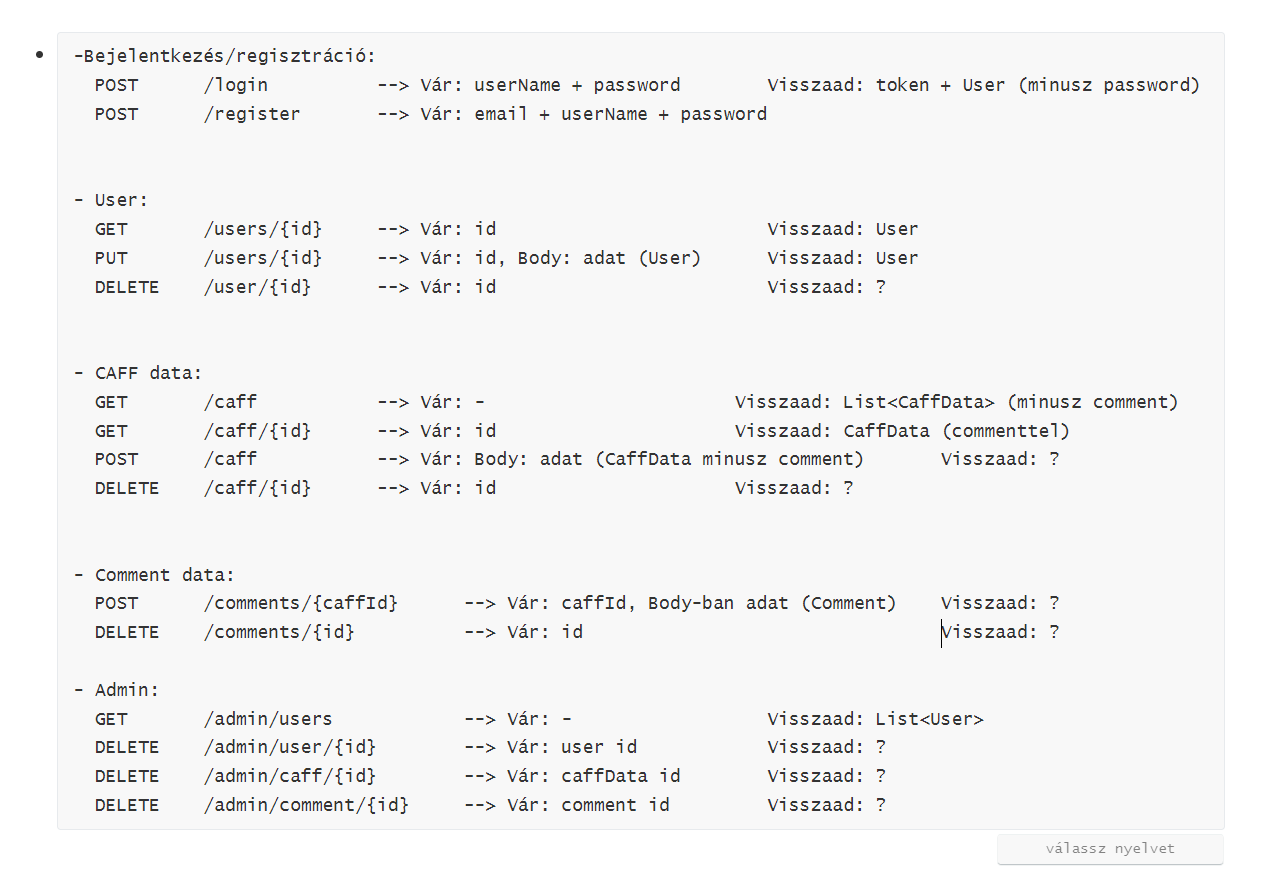
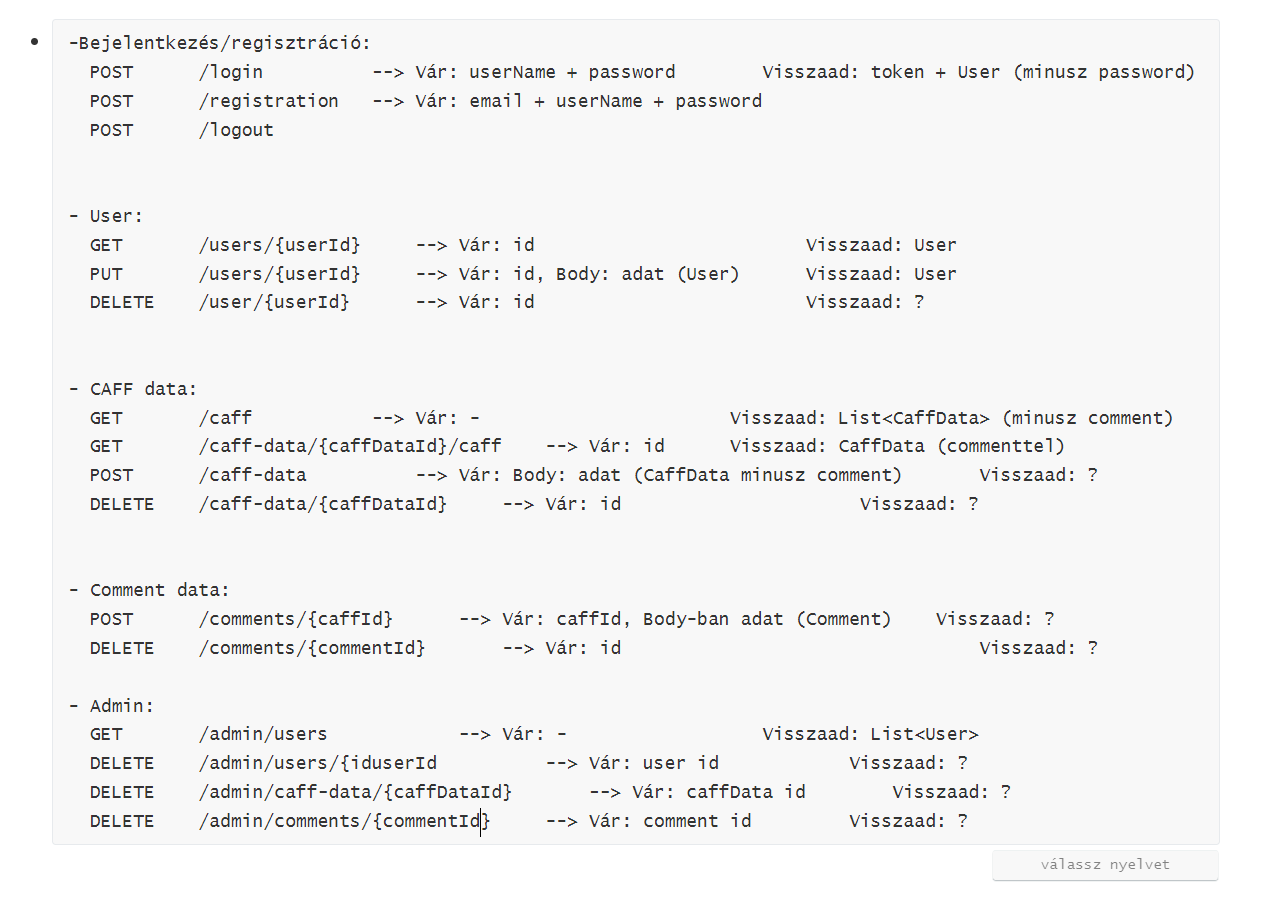
new class diagram from Béla's code

diff --git a/docs/3.fázis-Dokumentáció.md b/docs/3.fázis-Dokumentáció.md
@@ -1,0 +1,130 @@
+# Dokumentáció
+
+## A rendszer felépítése és felhasznált technológiák
+
+A projektünk egy webes alkalmazás, a felhasználók a böngészőt használva érhetik el a klienst, amely Angular (Typescript) frontend keretrendszerrel került megvalósításra. A kliens a backend által kínált Rest API interfészen kommunikál a backenddel. A kliens kéréseit a backend feldolgozza és visszaad JSON formájú üzeneteket, melyeket a kliens megjelenít a felhasználónak. A szerver a felhasználó adatait és a CAFF fájlhoz tartozó metaadatokat ??? tárolja. A Backenünkd Java Springgel techonlógiával készült, a CAFF fájlfeldolgozás pedig C++ nyelven történik.
+
+
+
+## Fontosabb funkciók - tervezett kinézet
+
+#### Funkcionális követelmények:
+
+- Felhasználóknak kell tudni regisztrálni és belépni
+- Felhasználóknak kell tudni CAFF fájlt feltölteni, letölteni, keresni
+- Felhasználóknak kell tudni CAFF fájlhoz megjegyzést hozzáfűzni
+- Felhasználó tudja a saját felhasználói adatait módosítani
+- Felhasználó tudja a fiókját törölni
+- A rendszerben legyen adminisztrátor felhasználó, aki tud adatokat törölni (CAFF fájlokat, megjegyzéseket)
+- Az adminisztrátor be tud lépni.
+- Az adminisztrátor törölhet felhasználót.
+
+#### Wireframek és tényleges megvalósítás
+
+##### Regisztráció 
+
+A felhasználó egy egyedi felhasználónévvel, email címmel és jelszó megadásával regisztrálhat.
+
+
+
+##### Bejelentkezés:
+
+A felhasználó a korábban regisztrált email címmel és jelszóval tud belépni. Admin???
+
+
+
+##### Kezdőképernyő:
+
+Itt található az összes felhasználók által feltöltött CAFF objektum(??). Lehetőség van keresni a CAFF-ok között, illetve rákattintva adott CAFF-ra, átnavigál az oldal a részletes nézetére.
+
+
+
+##### Részletes nézet:
+
+Itt található adott CAFF minden adata, vagyis hogy ki töltötte fel, mikor, és milyen leírást adott hozzá. A Kép mellett komment hozzáadására is lehetőség van. Ha a belépett felhasználó az általa feltöltött CAFF részletes nézetében van, akkor lehetősége van törölni is azt, illetve saját kommentjét is.???? Admin jogosultságú felhasználó bárki CAFF-ját és hozzászólását tudja törölni.????
+
+
+
+##### Felhasználói fiók:
+
+A felhasználó át tud navigálni a saját fiókjának beállításaihoz, ahol tudja módosítani felhasználó nevét (amennyiben továbbra is még nem regisztrált nevet ad meg), email címét és jelszavát. ??? Lehetősége van törölni is az egész felhasználói fiókját. Ezen az oldalon látható még a felhasználó által feltöltött CAFF-ok, itt (is??) van lehetősége törölni ezeket, illetve újat feltölteni.
+
+
+
+##### CAFF feltöltés:
+
+A felhasználó a saját gépéről ki tud választani egy CAFF fájlt, amit fel szeretne tölteni, tovább meg kell adnia egy nevet kötelezően és opcionálisan egy leírást is hozzá.
+
+
+
+##### Felhasználók törlése:
+
+Admin jogosultságú felhasználónak lehetősége van bármelyik felhasználót törölnie, ehhez egy külön oldalt biztosítunk, ahol az összes regisztrált felhasználó megjelenik egy listában. Mindegyik mellett megjelenik egy törlés gomb, amire rákattintva, törlődik a felhasználó
+
+
+
+## Szerver
+
+#### Szerver felépítése:???
+
+A backendünk Java Spring Boot technológiával készült. Az adatok perzisztens tárolásához ??? használtunk. A felhasználók és CAFF fájlok + kommentek tárolására külön (adatbázist)??? hoztunk létre.
+Külön kontroller osztályok vannak a felhasználók, admin feladatok, illetve CAFF fájlok és kommentek kezelésére is. A kliens-szerver közti adatátvitelhez külön Request, Resonse és DTO osztályokat vezettünk be, a hatékonyabb működés miatt, tehát hogy ne kérjünk le sokszor szükségtelen adatokat is adott feladat működésénél. 
+
+##### Végpontok:
+
+- Bejelentkezés/regisztráció:
+  -  POST		 /login    		
+  -  POST		 /register	
+- User:
+  - GET  		  /users/{id}  	
+  - PUT	        /users/{id}  	
+  - DELETE  	/user/{id}		
+
+
+- CAFF data:
+
+  - GET  	  	/caff  			
+
+  - GET  		  /caff/{id}  	
+
+  - POST		  /caff			
+
+  - DELETE	  /caff/{id}		
+
+- Comment data:
+
+  - POST 		/comments/{caffId}		
+
+  - DELETE 	/comments/{id}			
+
+- Admin:
+
+  - GET			/admin/users			
+  - DELETE     /admin/user/{id}   		
+  - DELETE	 /admin/caff/{id}		
+  - DELETE	 /admin/comment/{id}	
+
+
+##### Entitások (adatok??):
+
+##### 	![data](C:\Adat\BME_MSC\2_felev\Számítógép-biztonság\HF\szgbizt\docs\data.PNG)
+
+
+
+##### DTO-k:
+
+![dtos](C:\Adat\BME_MSC\2_felev\Számítógép-biztonság\HF\szgbizt\docs\dtos.PNG)
+
+
+
+##### Swagger dokumentáció:
+
+#### Szerver biztonsága:
+
+A szerveroldali authentikációt és authorizációt(??) ??? oldottuk meg. JWT token - lejárati idő után, kidob a rendszer,
+
+#### Rendszer biztonsága:
+
+ egyedi felhasználó név-jelszó páros,  email cím validáció, nincsenek külső környvtárak?. stb???
+
+## Tesztelés
